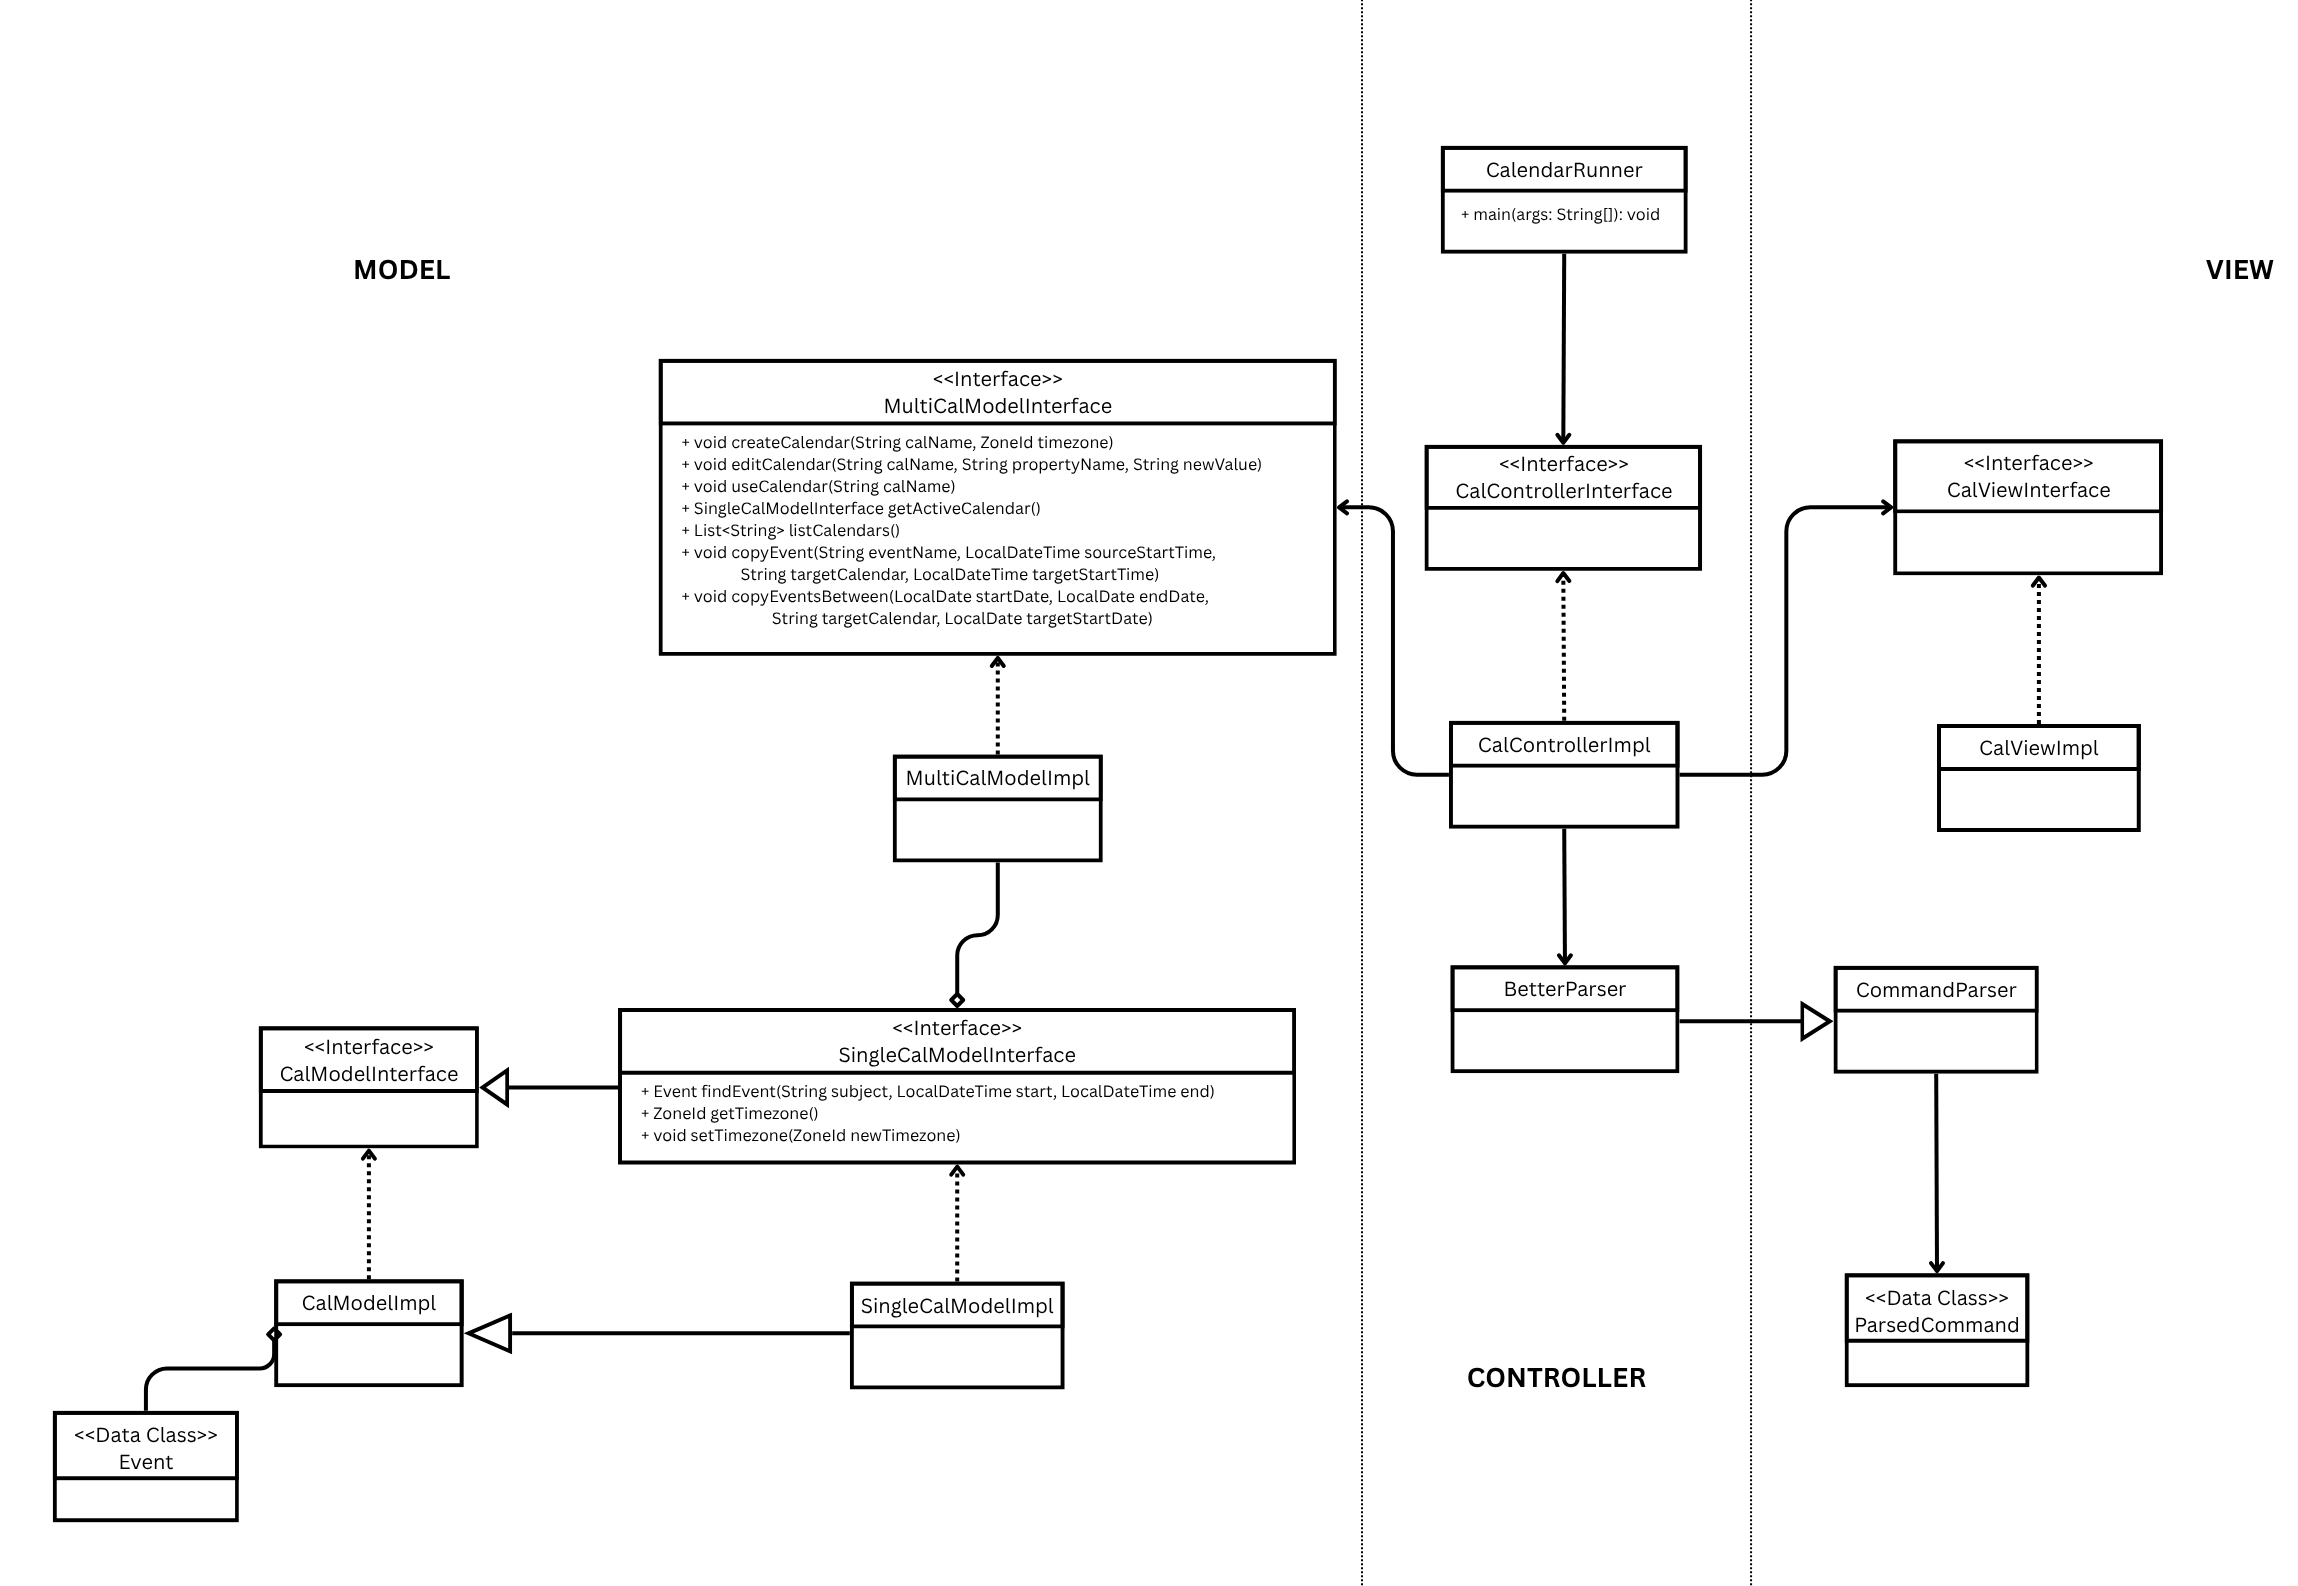
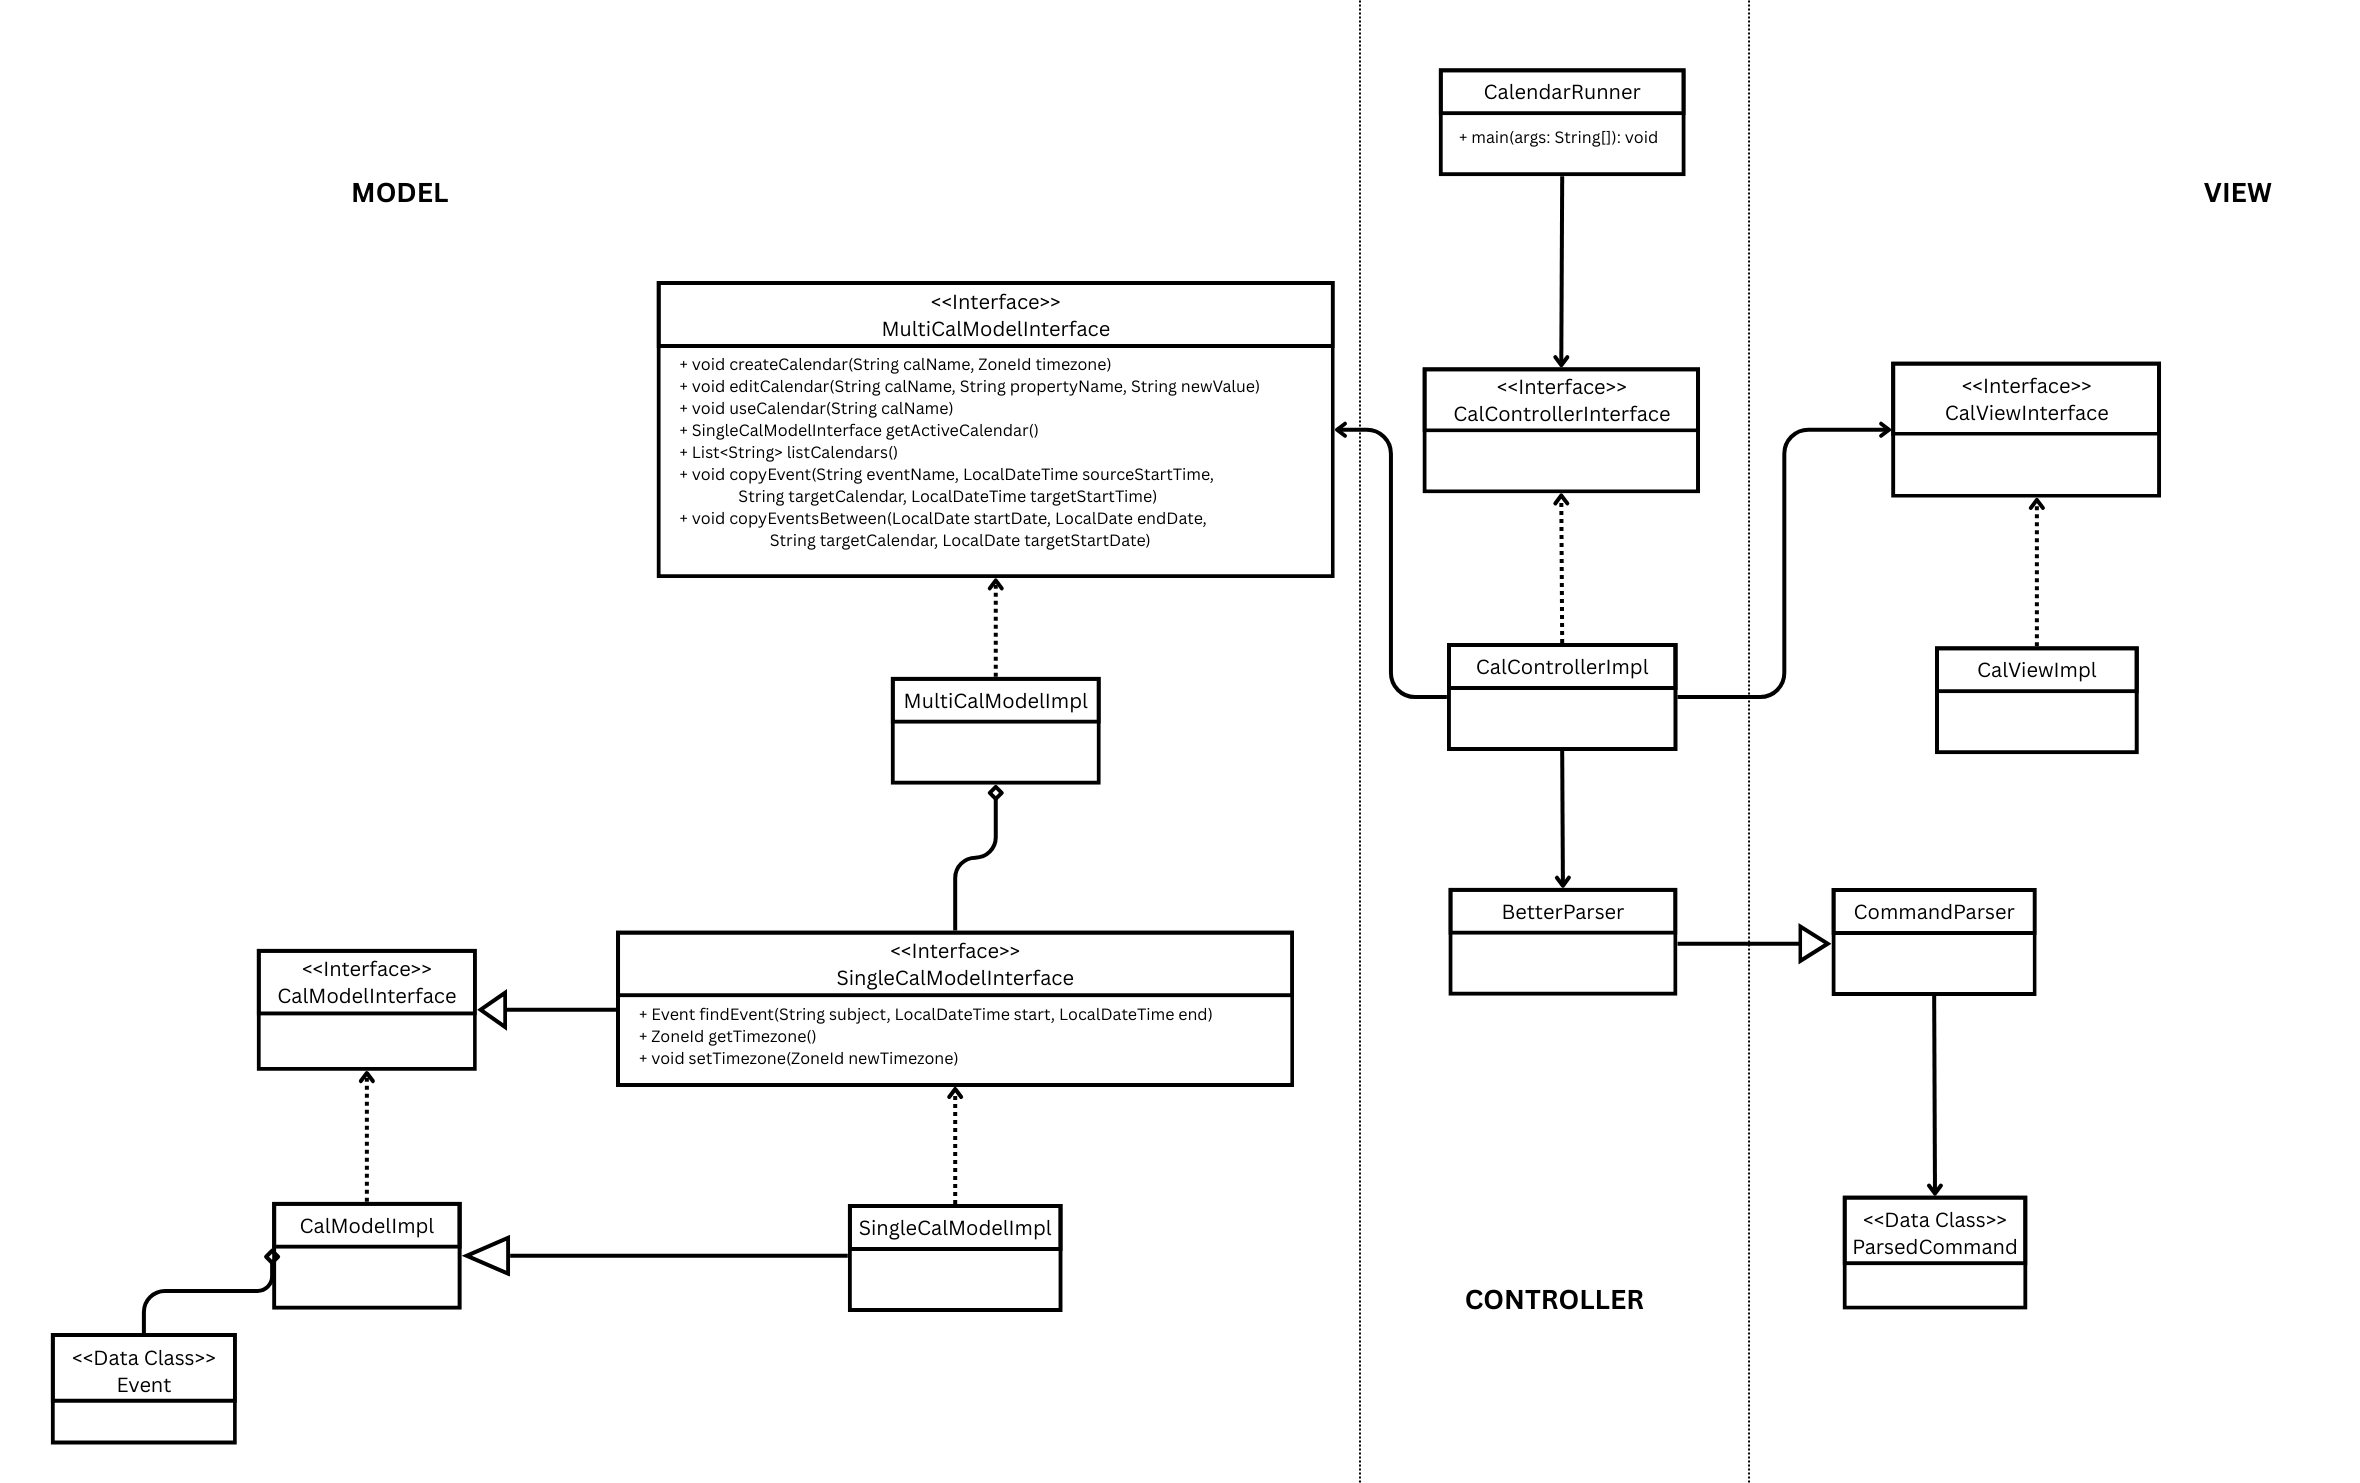
Submission files

diff --git a/src/test/java/CalendarTest.java b/src/test/java/CalendarTest.java
@@ -40,13 +40,6 @@ public class CalendarTest {
     System.setIn(originalIn);
   }
 
-  //  @Test
-  //  public void testMainGui() {
-  //    CalendarRunner.main(new String[] {});
-  //    String output = outContent.toString().split(System.lineSeparator())[0];
-  //    assertEquals("Starting the GUI...", output);
-  //  }
-
   @Test
   public void testMainShowsErrorWhenHeadlessWithoutFile() {
     CalendarRunner.main(new String[] {"--mode", "headless"});

diff --git a/USEME.md b/USEME.md
@@ -8,15 +8,24 @@ To build the JAR file, run:
 ```
 This will create a JAR file in the `build/libs` directory
 
+
+
 ## Running the Application:
-### 1. Interactive Mode (Default)  
-The interactive mode allows you to enter commands manually through the terminal.  
+### 1. GUI Mode (Default)  
+The GUI mode allows you to interact with the application through a Graphical User Interface.  
+Operating the GUI: [**Link**](#how-to-use-the-gui)
 
 **Command:**  
 ```bash
 java -jar <JAR path>.jar
 ```
-or explicitly:
+**Instructions on how to use the GUI are [here](#how-to-use-the-gui)**
+
+
+### 2. Interactive Mode (Default)
+The interactive mode allows you to enter commands manually through the terminal.
+
+**Command:**
 ```bash
 java -jar <JAR path>.jar --mode interactive
 ```
@@ -24,7 +33,7 @@ You will then be prompted to enter calendar commands directly (e.g., creating, e
 To exit, use the "Exit" command.
 
 
-### 2. Headless Mode   
+### 3. Headless Mode   
 In headless mode, the program reads commands from a text file instead of user input.
 
 **Command:**
@@ -44,7 +53,7 @@ The application will execute them sequentially and print results to the console.
 ```bash
 java -jar build/libs/calendar-1.0.jar
 ```
-Starts in interactive mode (default)  
+Starts in GUI mode (default)  
 
 **Example 2:**
 ```bash
@@ -56,4 +65,57 @@ Starts in interactive mode
 ```bash
 java -jar build/libs/calendar-1.0.jar --mode headless res/commands.txt
 ```
-Executes all commands in `inputCommands.txt` and displays the output in the terminal.
+Executes all commands in `inputCommands.txt` and displays the output in the terminal.  
+
+---
+
+
+
+
+
+
+## How to use the GUI
+
+The GUI is divided into 4 panes, as shown below:  
+
+![Image of the GUI](res/gui_images/panes.png)
+
+### Calendars Pane:
+- The left pane displays the available calendars, the selected (active) one is highlighted in orange.  
+- By default, when the application is run, a default calendar is created and made active.
+![Image of the calendars pane](res/gui_images/lpane.png)
+
+### Day Events Pane:
+- The right pane displays all events scheduled **for the selected day** (highlighted in yellow as shown below).
+- Each of the events also have an edit button, which allows you to edit that particular event alone
+![Image of the day events pane](res/gui_images/rpane.png)
+
+### Month Grid Pane:
+- The buttons to the left and right of the month name at the top of this pane can be used to navigate to different
+month views.
+- Selected day is highlighted in yellow. Image is shown above
+
+### Top Action Buttons Pane
+- This pane contains the main action buttons for the calendar application.
+- Clicking on any of the action buttons opens a dialog box (as shown below),
+where the date fields are autopopulated if any day was selected on the month grid
+before clicking on the action buttons.
+- Event times are defaulted to the "all-day" event hours (8am - 5pm), but can be changed
+in the dialog box
+![Image of the create event series until date dialog box](res/gui_images/tpane.png)
+
+### Example flow:
+
+1. Run the application in GUI mode (no arguments).  
+2. A calendar is created and selected: "Default".  
+3. Create another calendar if you want to, or proceed to creating events/event series. Creating a calendar automatically
+sets that calendar as active (as seen by the orange highlight, which would have moved to the created calendar).  
+4. Create an event either by directly clicking one of the create event/series buttons and manually entering the dates
+for the event, or, select the day for which you want to create the event in the month grid, and then click one of the
+create event/series buttons to see the date fields autopopulated. The time fields are defaulted to
+all-day event timings (8am - 5pm).
+5. View the events for a day on the right pane.
+6. Edit a particular event if needed, or edit multiple events using the top action pane button.
+7. The edition is reflected in the right pane on the correct day.
+8. Switch to a different calendar if needed by clicking on it.
+9. Close the window to quit the program.

diff --git a/res/Misc.md b/res/Misc.md
@@ -1,0 +1,43 @@
+## Design Changes
+
+---
+The changes were limited to the view and the controller; the model remains unchanged.  
+- A new interface (`CalGuiInterface`) and its implementation (`CalGuiImpl`) was added to the view's package to support the GUI.  
+- A new interface (`Features`) and it's implementation (`GuiControllerImpl`) was added to the controller's package to define the callback functions that the GUI would call.  
+
+
+| Change                                                | What Was Modified                                                                                                                         | Why It Was Needed                                                                                                                                                                |
+|-------------------------------------------------------|-------------------------------------------------------------------------------------------------------------------------------------------|----------------------------------------------------------------------------------------------------------------------------------------------------------------------------------|
+| **1. Added new `Features` interface**                 | Introduced a callback interface implemented by the controller for all GUI-initiated actions.                                              | Enforces proper MVC: the view does not directly call model methods; it delegates user actions to the controller.                                                                 |
+| **2. Added new `CalGuiInterface` interface**          | Defines all methods that the view exposes for the controller to update the GUI.                                                           | Isolates the Swing implementation from the rest of the program and allows for multiple views to coexist, thereby letting the controller use whichever view as and when required. |
+| **3. Added `runGui()` method in `CalControllerImpl`** | Added a dedicated method responsible for constructing the view and launching the GUI instead of starting it in the constructor or `main`. | Provides a clean entry point for the GUI, and clean extensibility; Supporting additional UI modes without modifying the model.                                                   |
+
+## Features
+
+| Feature                                                                           | Supported in GUI | Supported in Headless | Supported in Interactive |  
+|-----------------------------------------------------------------------------------|------------------|-----------------------|--------------------------|
+| **1. Displaying calendar list**                                                   | Yes              | No                    | No                       |
+| **2. Creating a calendar**                                                        | Yes              | Yes                   | Yes                      |
+| **3. Selecting a calendar / switching between calendars**                         | Yes              | Yes                   | Yes                      |
+| **4. Highlighting selected calendar**                                             | Yes              | No                    | No                       |
+| **5. Month grid (clickable days)**                                                | Yes              | No                    | No                       |
+| **6. Showing events for selected day**                                            | Yes              | Yes                   | Yes                      |
+| **7. Showing events for range of days**                                           | No               | Yes                   | Yes                      |
+| **8. Creating an event**                                                          | Yes              | Yes                   | Yes                      |
+| **9. Creating an event series (count)**                                           | Yes              | Yes                   | Yes                      |
+| **10. Creating an event series (until date)**                                     | Yes              | Yes                   | Yes                      |
+| **11. Editing a single event**                                                    | Yes              | Yes                   | Yes                      |
+| **12. Editing events of a series after this event**                               | Yes              | Yes                   | Yes                      |
+| **13. Editing an entire event series**                                            | Yes              | Yes                   | Yes                      |
+| **14. Informational messages (creation / edition / etc.)**                        | Yes              | Yes                   | Yes                      |
+| **15. Error messages**                                                            | Yes              | Yes                   | Yes                      |
+| **16. Default calendar creation on application start**                            | Yes              | No                    | No                       |
+| **17. Exporting events to a .csv file**                                           | No               | Yes                   | Yes                      |
+| **18. Exporting events to a .ics (iCal) file**                                    | No               | Yes                   | Yes                      |
+| **19. Copying a single event from one calendar to another**                       | No               | Yes                   | Yes                      |
+| **20. Copying events of a single day from one calendar to another**               | No               | Yes                   | Yes                      |
+| **21. Copying events within a range of days from one calendar to another**        | No               | Yes                   | Yes                      |
+| **22. User status on a given day (busy or available)**                            | No               | Yes                   | Yes                      |
+| **23. Converting event times to the timezone of the calendar they are a part of** | Yes              | Yes                   | Yes                      |
+| **24. Quiting the application**                                                   | Yes              | Yes                   | Yes                      |
+